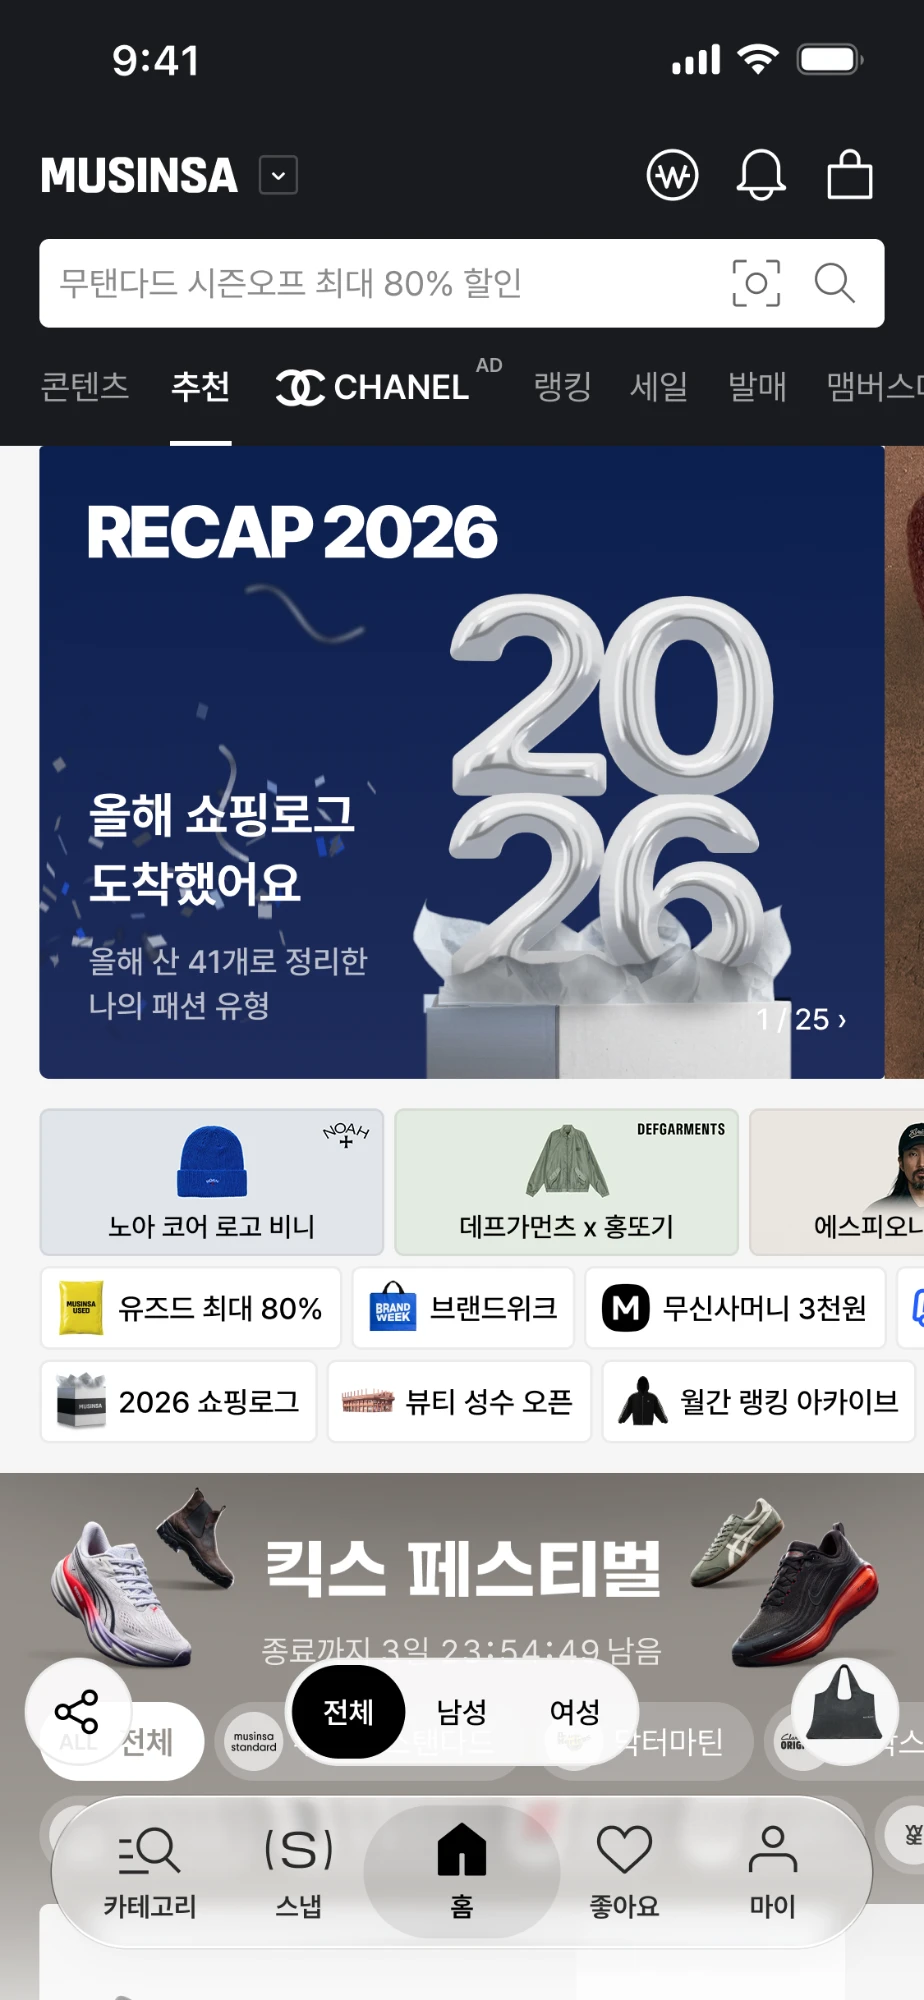
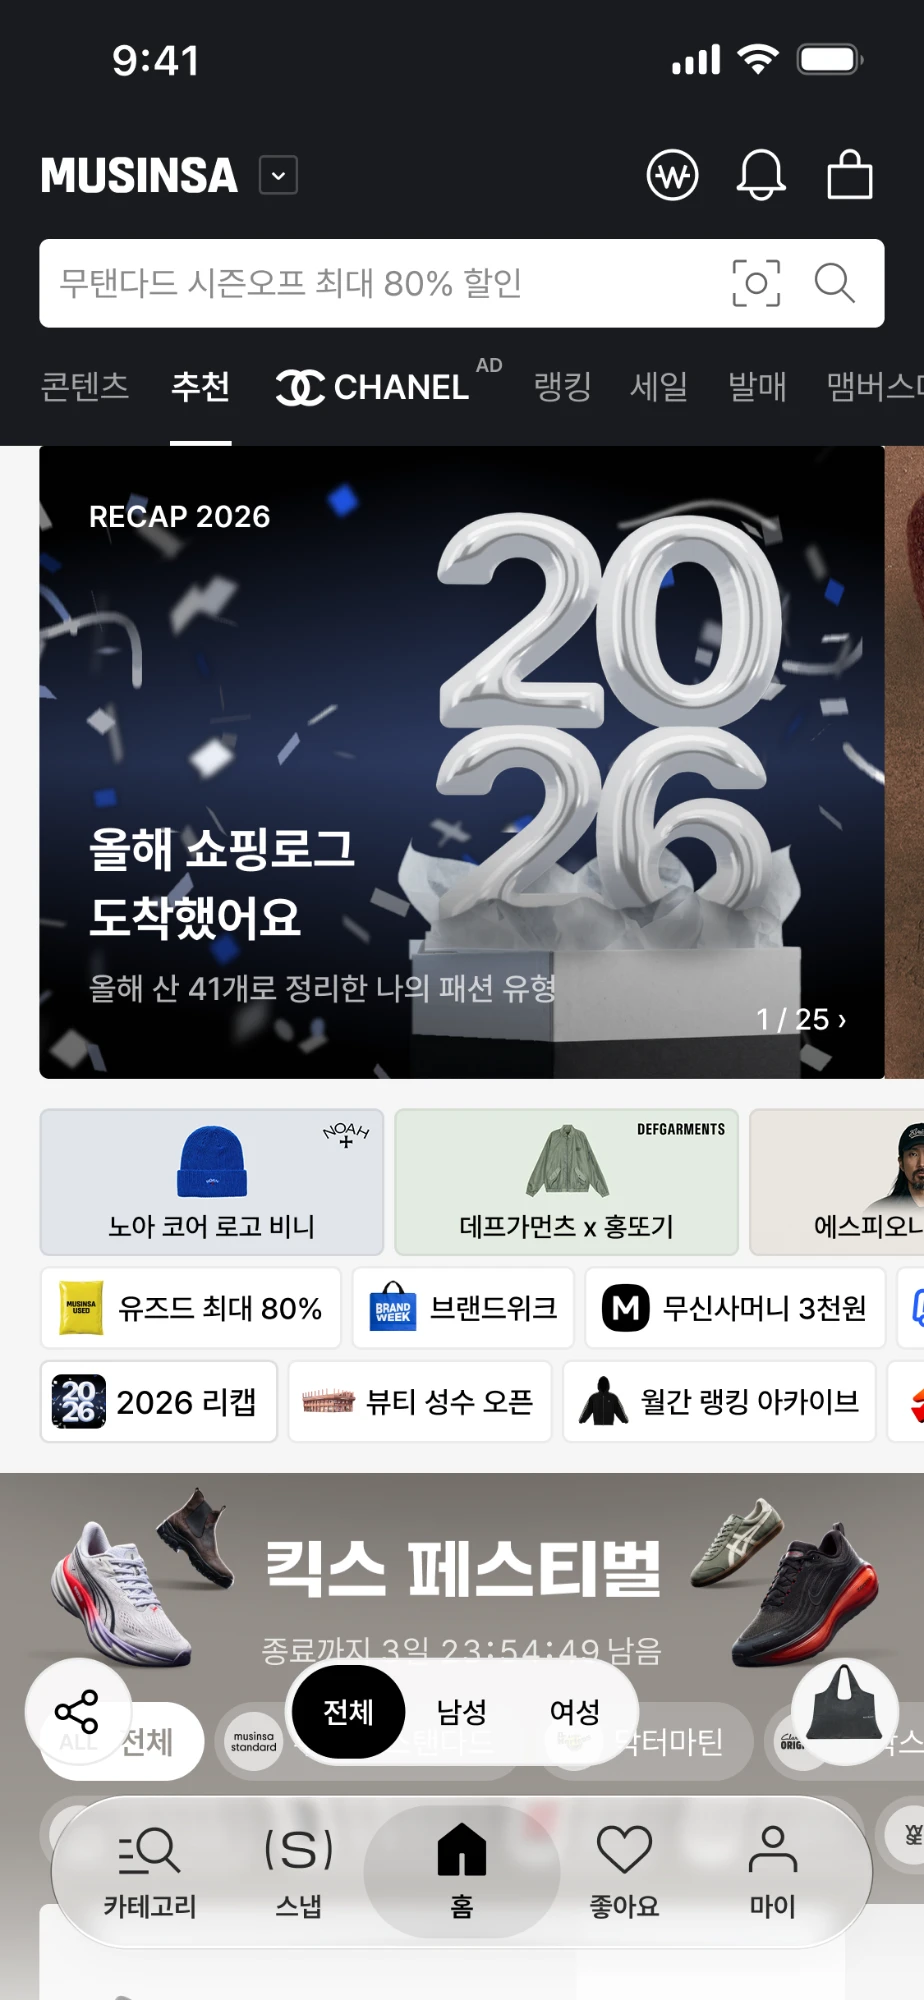
feat: 앱바 2026 리캡 아이콘을 2026 풍선 이미지로 교체
- 아이콘 형태 옵션(2D/3D) 제거, 아이콘 한 종만 제공
- 홈 페이지 이미지 교체

Changed region(s): [[0.0303, 0.217, 0.9697, 0.558], [0.0303, 0.682, 1.0, 0.713]]

diff --git a/2026/1123_appbar-recap-icon/1st/prototype/Type_1.html b/2026/1123_appbar-recap-icon/1st/prototype/Type_1.html
@@ -1,5 +1,5 @@
 <!DOCTYPE html>
-<html lang="ko" data-phone="375" data-preload="src/lottie/ic_appbar_apptech_white.json?v=20261123-09"> <!-- 폰 크기: 375 고정 (배경 이미지 375×812 기준) -->
+<html lang="ko" data-phone="375" data-preload="src/lottie/ic_appbar_apptech_white.json?v=20261123-11"> <!-- 폰 크기: 375 고정 (배경 이미지 375×812 기준) -->
 <head>
   <meta charset="UTF-8">
   <meta name="viewport" content="width=device-width, initial-scale=1.0, maximum-scale=1.0, user-scalable=no, viewport-fit=cover">
@@ -16,15 +16,15 @@
   <link rel="icon" type="image/png" sizes="32x32" href="https://image.msscdn.net/static/assets/bi/favicon/favicon-32x32.png">
   <link rel="apple-touch-icon" sizes="180x180" href="https://image.msscdn.net/static/assets/bi/favicon/favicon-180x180.png">
   <link rel="stylesheet" href="https://static.msscdn.net/skin/musinsa/css/dsFont-1.5.css"> <!-- 폰트: Pretendard (무신사 CDN) -->
-  <link rel="stylesheet" href="./src/common/mds-motion.css?v=20261123-09">
-  <link rel="stylesheet" href="./src/common/common.css?v=20261123-09">
-  <link rel="stylesheet" href="./src/types/type_1.css?v=20261123-09">
+  <link rel="stylesheet" href="./src/common/mds-motion.css?v=20261123-11">
+  <link rel="stylesheet" href="./src/common/common.css?v=20261123-11">
+  <link rel="stylesheet" href="./src/types/type_1.css?v=20261123-11">
 </head>
 <body>
 
   <!-- 상태바 요소 없음: 배경 page.webp(924×2000, 리캡 홈 화면)에 상태바까지 그려져 있음 -->
   <main class="phone">
-    <img class="phone-bg" src="src/img/page.webp?v=20261123-09" alt="">
+    <img class="phone-bg" src="src/img/page.webp?v=20261123-11" alt="">
 
     <header class="appbar">
       <div class="appbar-brand">
@@ -35,11 +35,9 @@
       </div>
 
       <div class="appbar-icons">
-        <!-- 이벤트 아이콘 자리(체크인 자리): 아이콘을 바꾸려면 src/img/appbar/ic_event.svg (28×28, 흰 선 1.4) 만 교체. 배지는 모션용으로 따로 둠 -->
+        <!-- 이벤트 아이콘 자리(체크인 자리): 아이콘을 바꾸려면 src/img/appbar/ic_event_2026.png (112×112 → 28×28 로 표시) 만 교체. 배지는 모션용으로 따로 둠 -->
         <div class="appbar-icon appbar-icon--checkin">
-          <!-- 아이콘 형태: 인덱스 옵션 '아이콘 형태' (<html data-icon="2d | 3d">, 기본 2d). 보이는 쪽은 type_1.css -->
-          <img class="appbar-checkin-pin appbar-event-2d" src="src/img/appbar/ic_event.svg?v=20261123-09" alt="2026 리캡" width="28" height="28">
-          <img class="appbar-checkin-pin appbar-event-3d" src="src/img/appbar/ic_event_3d.png?v=20261123-09" alt="" width="28" height="28">
+          <img class="appbar-checkin-pin" src="src/img/appbar/ic_event_2026.png?v=20261123-11" alt="2026 리캡" width="28" height="28">
           <span class="appbar-checkin-badge" id="checkinBadge">이벤트</span>
         </div>
         <div class="appbar-icon appbar-icon--reward">
@@ -67,7 +65,7 @@
   <!-- 라이브러리: 필요할 때만 CDN으로 붙임 -->
   <script src="https://cdnjs.cloudflare.com/ajax/libs/lottie-web/5.13.0/lottie_svg.min.js"></script>
   <script src="https://cdn.jsdelivr.net/npm/motion@14.1.0/dist/motion.js"></script>
-  <script src="./src/common/common.js?v=20261123-09"></script>
-  <script src="./src/types/type_1.js?v=20261123-09"></script>
+  <script src="./src/common/common.js?v=20261123-11"></script>
+  <script src="./src/types/type_1.js?v=20261123-11"></script>
 </body>
 </html>

diff --git a/2026/1123_appbar-recap-icon/1st/index.html b/2026/1123_appbar-recap-icon/1st/index.html
@@ -423,7 +423,7 @@
       title: '[앱바] 2026 리캡 아이콘',
       sub: '26-1123 · Prototype',
       label: 'TYPES',
-      version: '20261123-09',
+      version: '20261123-11',
       qrHost: '172.30.1.42', // proto_server.py 없이 localhost로 열 때만 쓰는 예비값 (서버로 띄우면 지금 IP를 자동으로 씀)
       figma: '',
       jira: '',
@@ -433,9 +433,6 @@
       locked: [], // 예: ['spec', 'download'] → 버튼만 보이고 흐리게 (최종 전)
       /* 뱃지 문구: 값은 영문·숫자만 넘길 수 있어 코드로 넘기고, 프로토타입이 문구로 바꿈 (type_1.js BADGE_TEXT) */
       options: [
-        { section: '아이콘 형태', card: true },
-        { id: 'icon', label: '아이콘', default: '2d',
-          choices: [{ value: '2d', label: '2D 쉐입' }, { value: '3d', label: '3D 이미지' }] },
         { section: '문구', card: true },
         { id: 'badge-text', label: '뱃지 문구', default: 'event',
           choices: [{ value: 'event', label: '이벤트' }, { value: '2026', label: '2026' }, { value: 'log', label: '쇼핑로그' }, { value: 'recap', label: 'RECAP' }] }

diff --git a/2026/1123_appbar-recap-icon/1st/prototype/src/types/type_1.css b/2026/1123_appbar-recap-icon/1st/prototype/src/types/type_1.css
@@ -155,16 +155,3 @@ body {
 .appbar-icon--checkin {
   z-index: 2;
 }
-
-/* 아이콘 형태 (인덱스 옵션 '아이콘 형태'): 2D 쉐입(ic_event.svg) ↔ 3D 이미지(ic_event_3d.png, 120×120 → 28×28) */
-.appbar-event-3d {
-  display: none;
-}
-
-:root[data-icon="3d"] .appbar-event-2d {
-  display: none;
-}
-
-:root[data-icon="3d"] .appbar-event-3d {
-  display: block;
-}

diff --git a/2026/1123_appbar-recap-icon/1st/prototype/src/types/type_1.js b/2026/1123_appbar-recap-icon/1st/prototype/src/types/type_1.js
@@ -125,7 +125,7 @@
         renderer: 'svg',
         loop: true,
         autoplay: false,
-        path: 'src/lottie/ic_appbar_apptech_white.json?v=20261123-09'
+        path: 'src/lottie/ic_appbar_apptech_white.json?v=20261123-11'
     });
     animation.addEventListener('DOMLoaded', function () {
         container.parentNode.classList.add('is-lottie');
